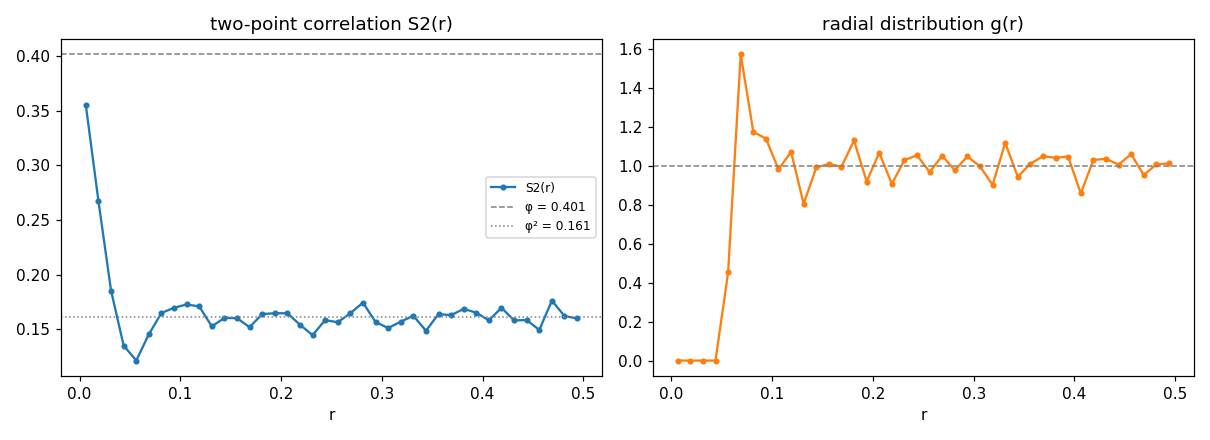
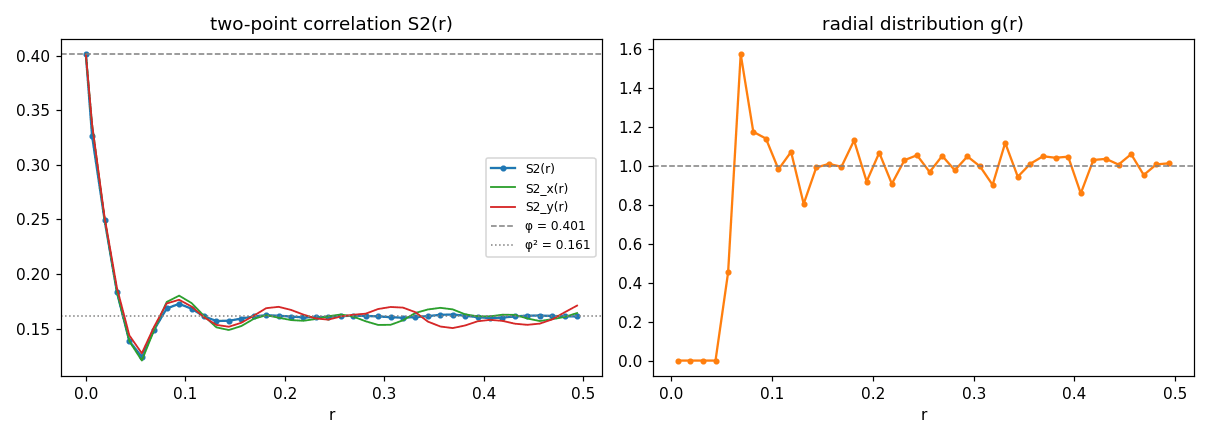
Statistics: README section on S2, example of aligned fibres, gallery regenerated (#127)

diff --git a/README.md b/README.md
@@ -181,7 +181,7 @@ declared by its static `parameters()` method):
 |                 | `svg`                      | `output_path`, `canvas_width` (2D picture) |
 |                 | `svg_3d`                   | `output_path`, `canvas_width` (projected 3D picture) |
 |                 | `three_js`                 | `output_path` (HTML viewer; loads three.js from unpkg.com, so the page needs network access) |
-|                 | `statistics`               | `output_path` (CSV), `nx`, `ny`, `nbins`: two-point correlation S2(r) and radial distribution g(r) |
+|                 | `statistics`               | `output_path` (CSV), `nx`, `ny`, `nz` (3D), `nbins`; optional `periodic`, `phase_correlations`: exact two-point probability S2, radial and along each axis, per phase; radial distribution g(r) |
 |                 | `run_summary`              | `output_path` (JSON): rvegen version, seed, the config, the generation report, shape count and volume fraction |
 
 The cross-references in shape inputs (e.g. `"pos_x_dist": "uniform_x"`) refer
@@ -222,6 +222,38 @@ reach, so a `volume_fraction` target may need more `max_attempts` or become
 unreachable; the report says which. `examples/periodic_min_gap.json` is a
 periodic pack with `min_gap` and `wall_gap` set to the mesh size.
 
+### Statistics: the two-point probability S2
+
+S2 at a lag is the probability that two points that far apart both lie in
+an inclusion. The `statistics` post-process counts it exactly on its
+nx x ny (x nz) voxel grid: the pair counts for every lag come from an FFT
+and are integers, so there is no sampling noise and the file is the same on
+every platform. The CSV has a row for r = 0, where S2 is the volume
+fraction of the grid, and one per bin up to half the smallest box edge:
+
+```
+# columns: r, S2(r), g(r), S2_x(r), S2_y(r), S2_z(r)
+```
+
+- `S2(r)` averages over all directions; `S2_x`, `S2_y`, `S2_z` take the
+  lags along one axis. They agree for an isotropic structure and differ for
+  aligned fibres or a weave (`examples/fibres_statistics.json`).
+- `"periodic"` says how the box ends: `true` wraps lags around (an RVE that
+  was generated periodic), `false` counts only pairs inside the box. Left
+  out, it follows the generator of the run. The header of the file says
+  which was used.
+- With `phases`, four more columns follow per phase (`S2[fibre](r)`, ...)
+  and per pair of phases (`S2[fibre|matrix](r)`: one point in each);
+  `"phase_correlations": false` leaves them out, as do more than 12 phases.
+- A field is empty where a bin holds no lag, which happens with bins
+  narrower than a voxel, along the axes first.
+- Cost: the voxelization plus a few FFTs, 16 bytes per voxel and phase. A
+  box that is not periodic is padded to about 1.5 times the voxels per axis.
+
+From C++ the same is `two_point_correlations` (`statistics/microstructure_stats.h`).
+The FFT is the bundled pocketfft header (BSD 3-Clause), kept in a namespace
+of its own.
+
 ### Worked examples
 
 `examples/` holds one config per feature area (2D/3D, periodic, polydisperse,
@@ -248,6 +280,8 @@ points:
 - `examples/mesh_inclusions_rotated.json`: copies of an STL mesh with random
   orientation and size.
 - `examples/circles_statistics.json`: S2(r) and g(r) of a dense pack.
+- `examples/fibres_statistics.json`: S2 of aligned short fibres, along the
+  fibres and across them.
 
 Run any of them with `./build/rvegen <path-to.json>` from any directory; the
 files appear in the current directory (or in `--output-dir`). Assets a config
@@ -417,7 +451,8 @@ include/rvegen/
                             tow_weave
   postprocess/              post_process_base + gmsh_geo, voxel, vtk_legacy, svg,
                             svg_3d, three_js, statistics; voxel_grid helper
-  statistics/               S2(r) / g(r) microstructure statistics
+  statistics/               S2 (exact, by FFT) / g(r) microstructure statistics
+  external/pocketfft/       bundled FFT header (BSD 3-Clause)
   visualization/            mesh_dispatcher + per-shape triangle meshes
   io/                       STL / PLY mesh readers
   phase/                    phase tags for voxel output

diff --git a/docs/gallery/README.md b/docs/gallery/README.md
@@ -89,6 +89,15 @@ versions mesh differently, so the element counts in their titles change.
 
 <img src="fibres_3d-vtk_legacy.png" alt="fibres_3d: voxel grid (.vtk)" width="440">
 
+## fibres_statistics
+
+[`fibres_statistics.json`](../../examples/fibres_statistics.json) · 3D 1×1×1 · polyline_tube_oriented_input · generator `periodic` · 102 shapes
+
+> Statistics of an anisotropic RVE: short fibres whose axes follow a Bingham distribution around +x. The statistics post-process reports the exact two-point probability S2 as a radial average and along each axis; S2_x(r) stays high over the length of a fibre while S2_y(r) and S2_z(r) fall off within its diameter.
+
+<img src="fibres_statistics-three_js.png" alt="fibres_statistics: three.js viewer (screenshot)" width="440">
+<img src="fibres_statistics-statistics.png" alt="fibres_statistics: statistics: S2(r) and g(r)" width="440">
+
 ## mesh_inclusions_3d
 
 [`mesh_inclusions_3d.json`](../../examples/mesh_inclusions_3d.json) · 3D 1×1×1 · mesh_inclusion_input · generator `only_inside` · 40 shapes
